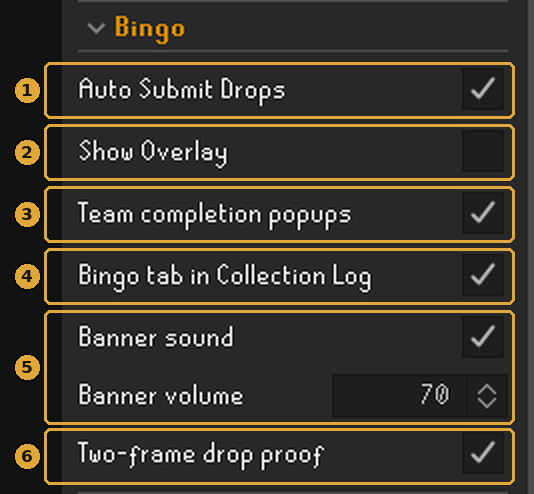
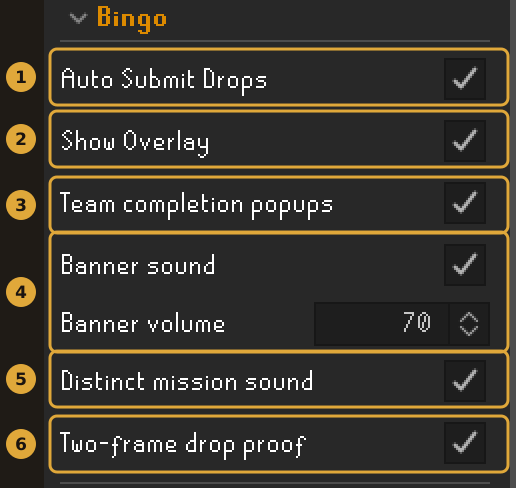
Recapture the Bingo config screenshot so it matches its legend
The old image was a settings panel that no longer exists. Its box 4 was "Bingo tab in Collection
Log", which AnvilConfig dropped, so every box from 4 down pointed one row above the setting the
legend named, and "Distinct mission sound" — legend entry 5 — appeared nowhere in the picture.

Rebuilt from a current screenshot. The seven rows are now Auto Submit Drops, Show Overlay, Team
completion popups, Banner sound, Banner volume, Distinct mission sound and Two-frame drop proof,
with the two sound rows sharing one box exactly as the legend reads them.

Row positions are MEASURED off the source rather than typed in — an ink profile finds each row's
band, and the boxes are drawn from those bands. That is the whole failure being fixed here: hand-
placed boxes stay where they were put while the panel underneath changes, and nothing about the
resulting page looks wrong until you compare it to the plugin.

Cropped to the Bingo section alone. The full screenshot also contains the account token, the OBS
host and a live Discord webhook URL, none of which are in the crop — a webhook URL is a credential,
and this file is served publicly.

516x488 now rather than 534x494; the Figure props follow.

Claude-Session: https://claude.ai/code/session_019eGG5ymWDMsSCJuKELb2tx

Changed region(s): [[0.0, 0.0, 0.9922, 1.0]]

diff --git a/src/app/guide/_pages/PluginGuide.tsx b/src/app/guide/_pages/PluginGuide.tsx
@@ -199,8 +199,8 @@ export default async function PluginGuide({ lang }: { lang: string }) {
         <p className="text-text-muted">{rt(p.bingo.intro, v)}</p>
         <Figure
           src="/guide/plugin-bingo.png"
-          width={534}
-          height={494}
+          width={516}
+          height={488}
           alt={p.bingo.figure.alt}
           caption={p.bingo.figure.caption}
           legend={legend(p.bingo.figure.legend, v)}
